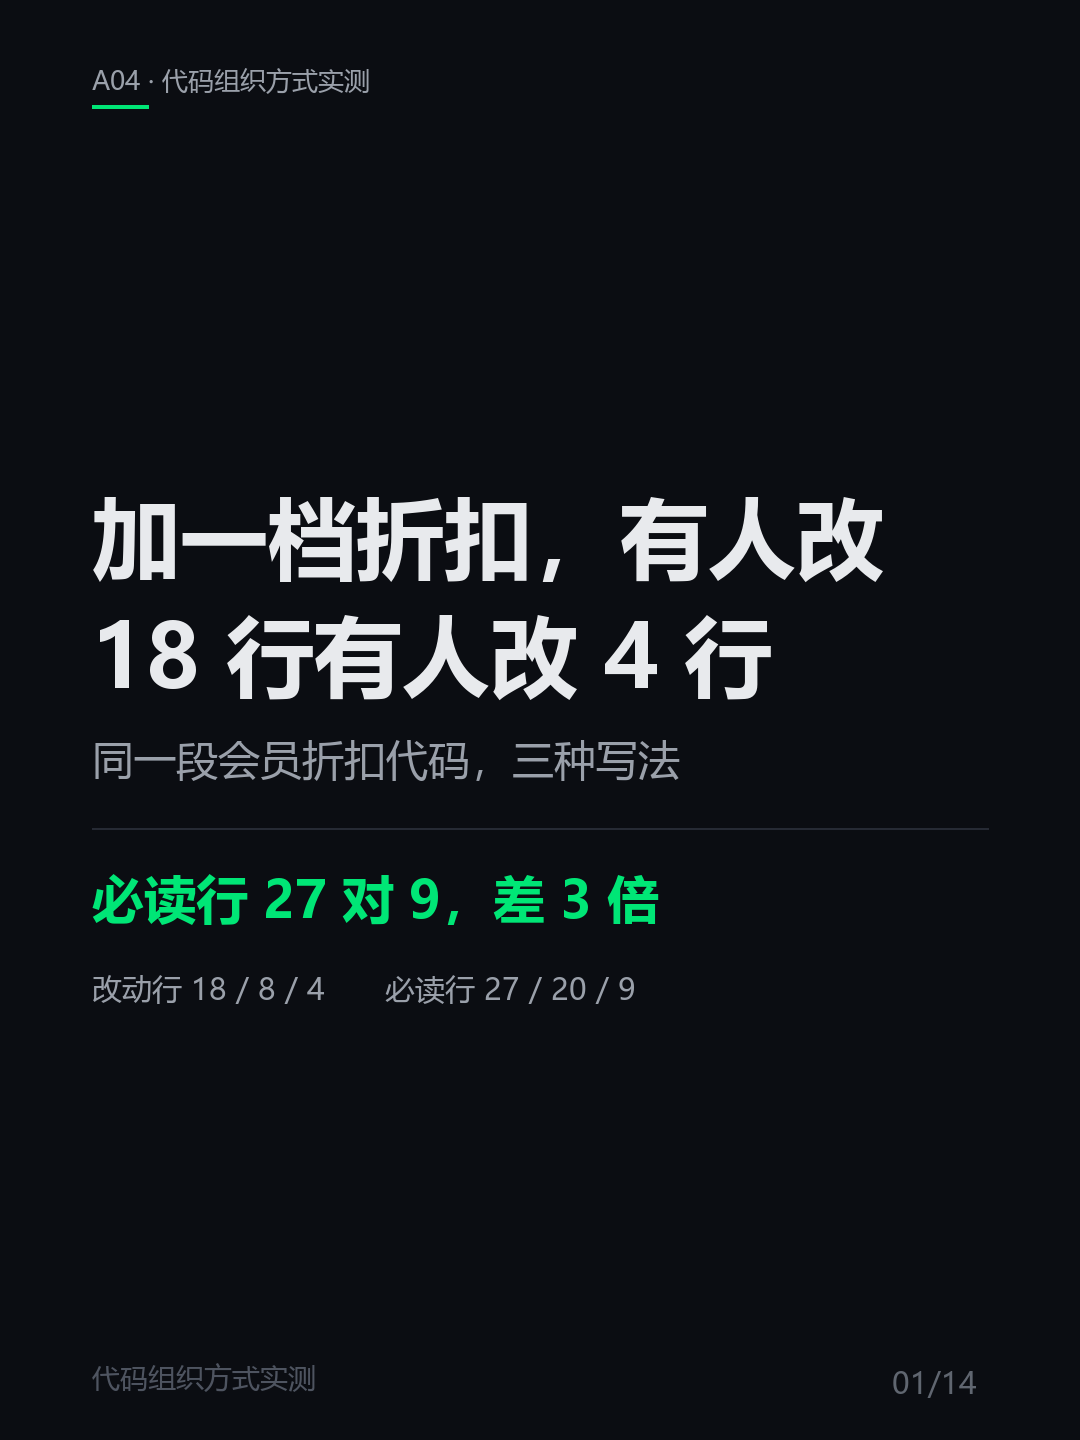
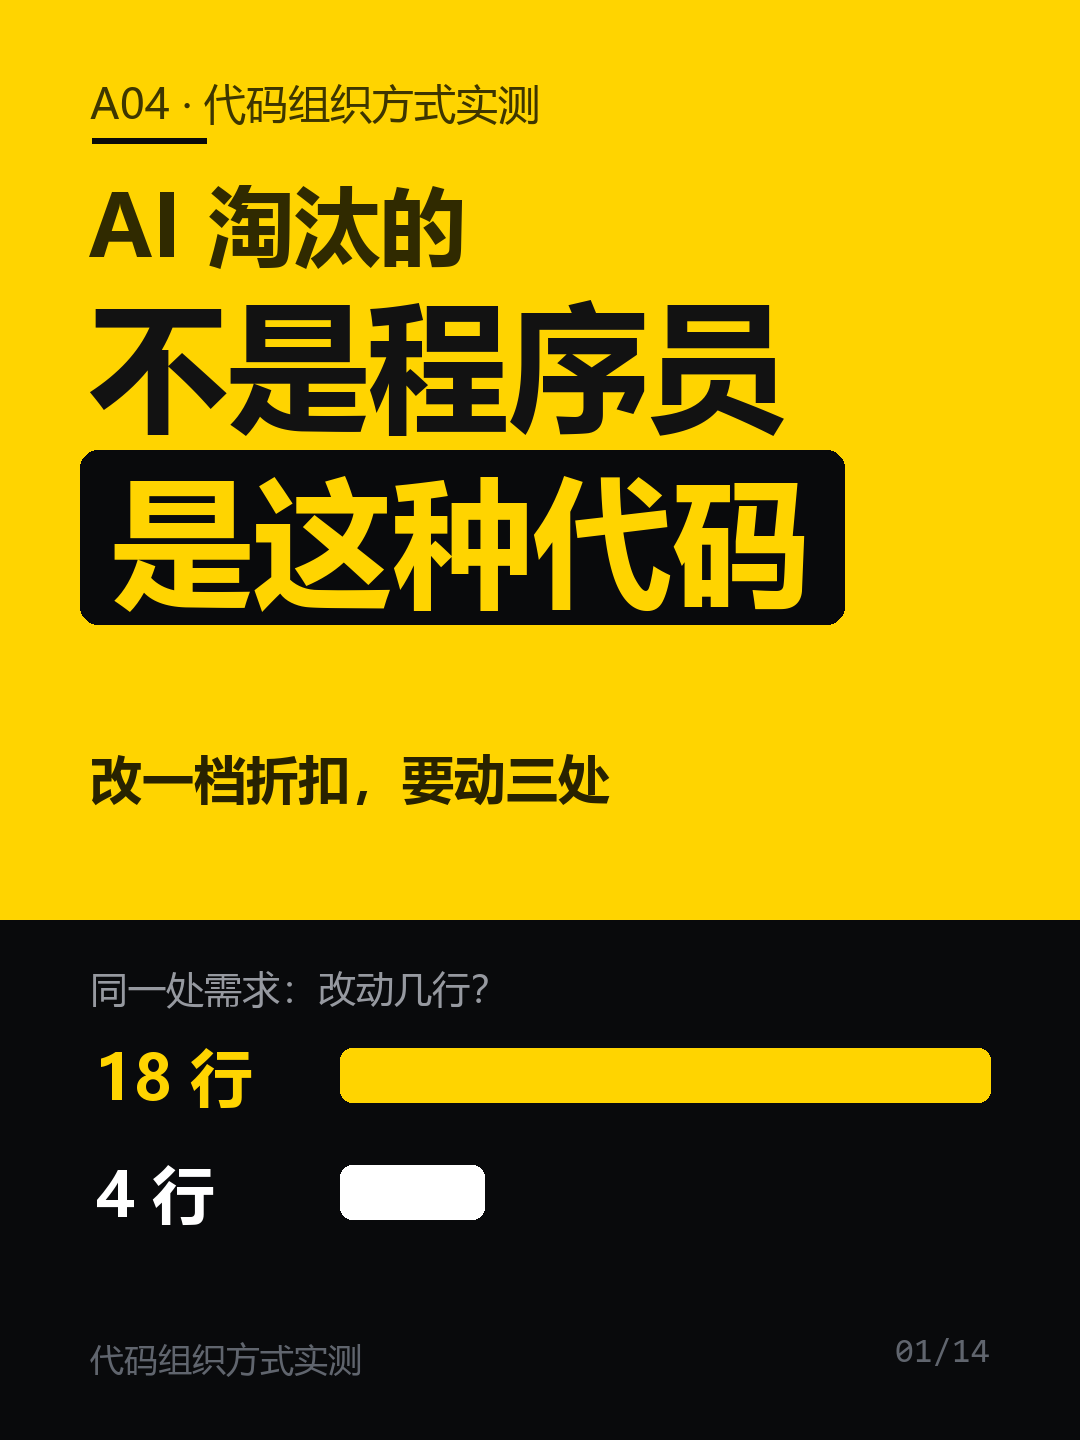
feat(a04): rewrite douyin title and cover to C2 assertion layout

diff --git a/AI开发范式/A04-AI时代什么样的程序员不会被淘汰：三种代码组织方式的改动成本实测-抖音.md b/AI开发范式/A04-AI时代什么样的程序员不会被淘汰：三种代码组织方式的改动成本实测-抖音.md
@@ -1,22 +1,23 @@
 ---
 platform: 抖音
-title: 加一档折扣，有人改 18 行有人改 4 行
+title: AI 时代，什么样的程序员不会被淘汰
 summary: 同一段代码三种写法：改18/8/4行，读27/20/9行。
 tags: [程序员, AI编程, 代码重构, 职场成长, 软件工程]
 limits: 标题 20 字（实测）/ 摘要 30 字（未实测）/ 正文按 P01…PN 分页出图
 source: A04-AI时代什么样的程序员不会被淘汰：三种代码组织方式的改动成本实测.md
 ---
 
-# 加一档折扣，有人改 18 行有人改 4 行
+# AI 时代，什么样的程序员不会被淘汰
 
 ## P01 · 封面
 
 > 卡片职责：抛 3 秒钩子，给出标题与核心数字
 
-- 大标题：加一档折扣，有人改 18 行有人改 4 行
-- 副标题：同一段会员折扣代码，三种写法
-- 核心数字：必读行 27 对 9，差 3 倍
-- 页脚：改动行 18 / 8 / 4　　必读行 27 / 20 / 9
+- 大标题：AI 淘汰的不是程序员，是这种代码
+- 痛点短语：改一档折扣，要动三处
+- 核心数字：改动行 18 对 4，差 4.5 倍
+- 版式：上 2/3 亮黄 #FFD400 断言区（末行反白块）+ 下 1/3 黑底条形对比
+- 页脚：01/14
 
 ## P02 · 题目
 
